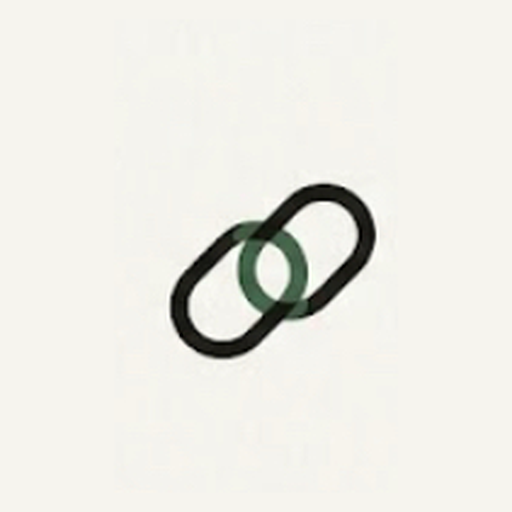
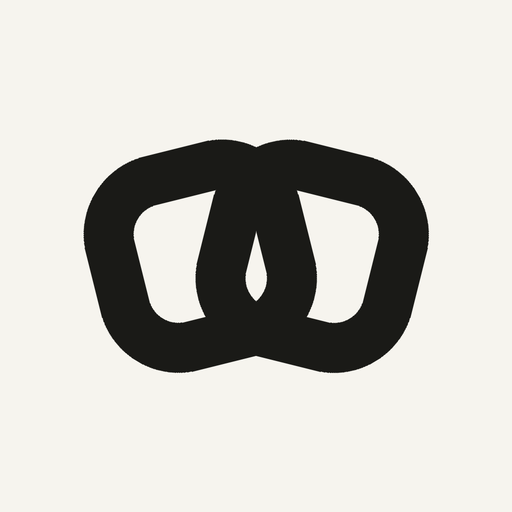
Rename Sidekick → Sorrel
- Lowercase 'sorrel' wordmark + new interlocked filled-rings mark (SVG
  component + regenerated favicon from the reference logo)
- package.json name, page title, all UI copy, README, launch configs
- Remove old Sidekick logo assets
- Make SQLite path rename-proof: resolve from process.cwd() at runtime
  (lib/prisma.ts) and CLI (prisma.config.ts) instead of baked absolute
  paths that broke on every folder rename

Changed region(s): [[0.1562, 0.25, 0.8438, 0.75]]

diff --git a/components/Logo.tsx b/components/Logo.tsx
@@ -1,17 +1,30 @@
-import Image from "next/image";
-import logo from "@/public/logo.jpeg";
-
-export default function Logo({ height = 28 }: { height?: number }) {
-  const width = Math.round((height * logo.width) / logo.height);
-
+export function LogoMark({ size = 24 }: { size?: number }) {
   return (
-    <Image
-      src={logo}
-      alt="Sidekick"
-      height={height}
-      width={width}
-      priority
+    <svg
+      width={(size * 120) / 100}
+      height={size}
+      viewBox="0 0 120 100"
+      aria-hidden="true"
       className="block"
-    />
+    >
+      <g fill="none" stroke="var(--ink)" strokeWidth="15">
+        <rect x="20" y="24" width="52" height="52" rx="19" transform="rotate(-14 46 50)" />
+        <rect x="48" y="24" width="52" height="52" rx="19" transform="rotate(14 74 50)" />
+      </g>
+    </svg>
+  );
+}
+
+export default function Logo({ height = 24 }: { height?: number }) {
+  return (
+    <span className="inline-flex items-center gap-2.5">
+      <LogoMark size={height} />
+      <span
+        className="font-serif font-semibold leading-none tracking-tight text-ink"
+        style={{ fontSize: height * 1.05 }}
+      >
+        sorrel
+      </span>
+    </span>
   );
 }

diff --git a/lib/prisma.ts b/lib/prisma.ts
@@ -1,9 +1,17 @@
+import path from "node:path";
 import { PrismaClient } from "@/app/generated/prisma/client";
+
+// SQLite path resolved from the process cwd at runtime. Relative file: URLs
+// break under Turbopack (the generated client's __dirname points into .next
+// chunks), and absolute paths in .env break whenever the project folder is
+// renamed — this survives both.
+const datasourceUrl = "file:" + path.join(process.cwd(), "prisma", "dev.db");
 
 const globalForPrisma = globalThis as unknown as {
   prisma: PrismaClient | undefined;
 };
 
-export const prisma = globalForPrisma.prisma ?? new PrismaClient();
+export const prisma =
+  globalForPrisma.prisma ?? new PrismaClient({ datasourceUrl });
 
 if (process.env.NODE_ENV !== "production") globalForPrisma.prisma = prisma;

diff --git a/prisma.config.ts b/prisma.config.ts
@@ -1,8 +1,6 @@
-
-// This file was generated by Prisma and assumes you have installed the following:
-// npm install --save-dev prisma dotenv
+import path from "node:path";
 import "dotenv/config";
-import { defineConfig, env } from "prisma/config";
+import { defineConfig } from "prisma/config";
 
 export default defineConfig({
   schema: "prisma/schema.prisma",
@@ -11,6 +9,8 @@ export default defineConfig({
   },
   engine: "classic",
   datasource: {
-    url: env("DATABASE_URL"),
+    // Resolved at CLI runtime so the project folder can be moved/renamed
+    // without breaking migrations or db commands.
+    url: "file:" + path.resolve(process.cwd(), "prisma/dev.db"),
   },
 });

diff --git a/components/LandingPage.tsx b/components/LandingPage.tsx
@@ -6,12 +6,12 @@ const STEPS = [
   {
     n: "01 · CONNECT",
     title: "Point it at your inbox",
-    body: "Connect Gmail. Sidekick scans the last 30 days on day one, so your first ledger is full in minutes. Nothing to set up.",
+    body: "Connect Gmail. Sorrel scans your recent mail on day one, so your first ledger is full in minutes. Nothing to set up.",
   },
   {
     n: "02 · EXTRACT",
     title: "It finds the promises",
-    body: "Sidekick reads your mail for real commitments — \"I'll send Friday,\" \"can you confirm?\" — and skips the noise like \"let's grab coffee sometime.\"",
+    body: "Sorrel reads your mail for real commitments — \"I'll send Friday,\" \"can you confirm?\" — and skips the noise like \"let's grab coffee sometime.\"",
   },
   {
     n: "03 · CLOSE",
@@ -36,7 +36,7 @@ export default function LandingPage() {
             by you.
           </h1>
           <p className="mt-5 max-w-md text-base text-ink-soft">
-            Sidekick reads your inbox and quietly tracks the commitments
+            Sorrel reads your inbox and quietly tracks the commitments
             hiding inside it — the ones you made and the ones people made to
             you — then nudges before anything slips. No typing. No lists to
             maintain.
@@ -78,7 +78,7 @@ export default function LandingPage() {
       </main>
 
       <footer className="mt-auto flex items-center justify-between border-t border-line px-6 py-6 font-mono text-xs text-ink-soft">
-        <span>Sidekick</span>
+        <span>sorrel</span>
         <span>the commitment layer for work &amp; life</span>
       </footer>
     </div>

diff --git a/app/layout.tsx b/app/layout.tsx
@@ -22,7 +22,7 @@ const jetbrainsMono = JetBrains_Mono({
 });
 
 export const metadata: Metadata = {
-  title: "Sidekick",
+  title: "Sorrel",
   description: "The commitment layer for work & life.",
 };
 

diff --git a/README.md b/README.md
@@ -1,36 +1,24 @@
-This is a [Next.js](https://nextjs.org) project bootstrapped with [`create-next-app`](https://nextjs.org/docs/app/api-reference/cli/create-next-app).
+# sorrel
 
-## Getting Started
+Sorrel is the commitment layer for work & life. It reads your email and
+quietly extracts two kinds of open loops — things you owe other people, and
+things other people owe you — then tracks when each one gets delivered, and
+nudges before anything slips. No manual task entry.
 
-First, run the development server:
+## Stack
 
-```bash
-npm run dev
-# or
-yarn dev
-# or
-pnpm dev
-# or
-bun dev
-```
+- Next.js 16 (App Router) + TypeScript + Tailwind CSS v4
+- NextAuth v5 with Google OAuth (`gmail.readonly` scope)
+- Prisma + SQLite
+- Claude API (tool-use) for commitment extraction
 
-Open [http://localhost:3000](http://localhost:3000) with your browser to see the result.
+## Setup
 
-You can start editing the page by modifying `app/page.tsx`. The page auto-updates as you edit the file.
+1. `npm install`
+2. Copy `.env.local.example` to `.env.local` and fill in the values — the
+   comments in that file walk through the Google Cloud OAuth setup.
+3. `npx prisma migrate dev`
+4. `npm run dev`, open [http://localhost:3000](http://localhost:3000)
 
-This project uses [`next/font`](https://nextjs.org/docs/app/building-your-application/optimizing/fonts) to automatically optimize and load [Geist](https://vercel.com/font), a new font family for Vercel.
-
-## Learn More
-
-To learn more about Next.js, take a look at the following resources:
-
-- [Next.js Documentation](https://nextjs.org/docs) - learn about Next.js features and API.
-- [Learn Next.js](https://nextjs.org/learn) - an interactive Next.js tutorial.
-
-You can check out [the Next.js GitHub repository](https://github.com/vercel/next.js) - your feedback and contributions are welcome!
-
-## Deploy on Vercel
-
-The easiest way to deploy your Next.js app is to use the [Vercel Platform](https://vercel.com/new?utm_medium=default-template&filter=next.js&utm_source=create-next-app&utm_campaign=create-next-app-readme) from the creators of Next.js.
-
-Check out our [Next.js deployment documentation](https://nextjs.org/docs/app/building-your-application/deploying) for more details.
+Sign in with Google, click **sync inbox**, and Sorrel scans your recent mail
+for commitments and sorts them into the owed-to-you / owed-by-you ledger.